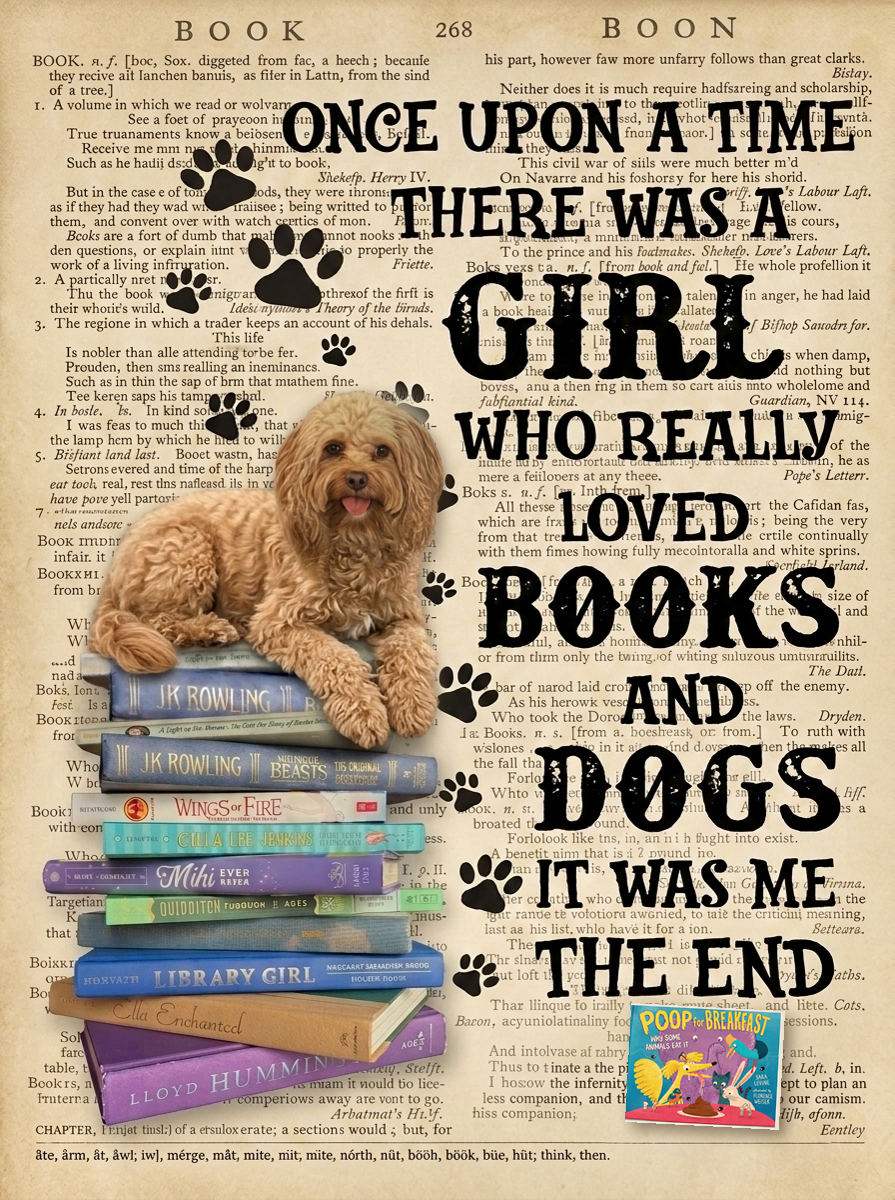
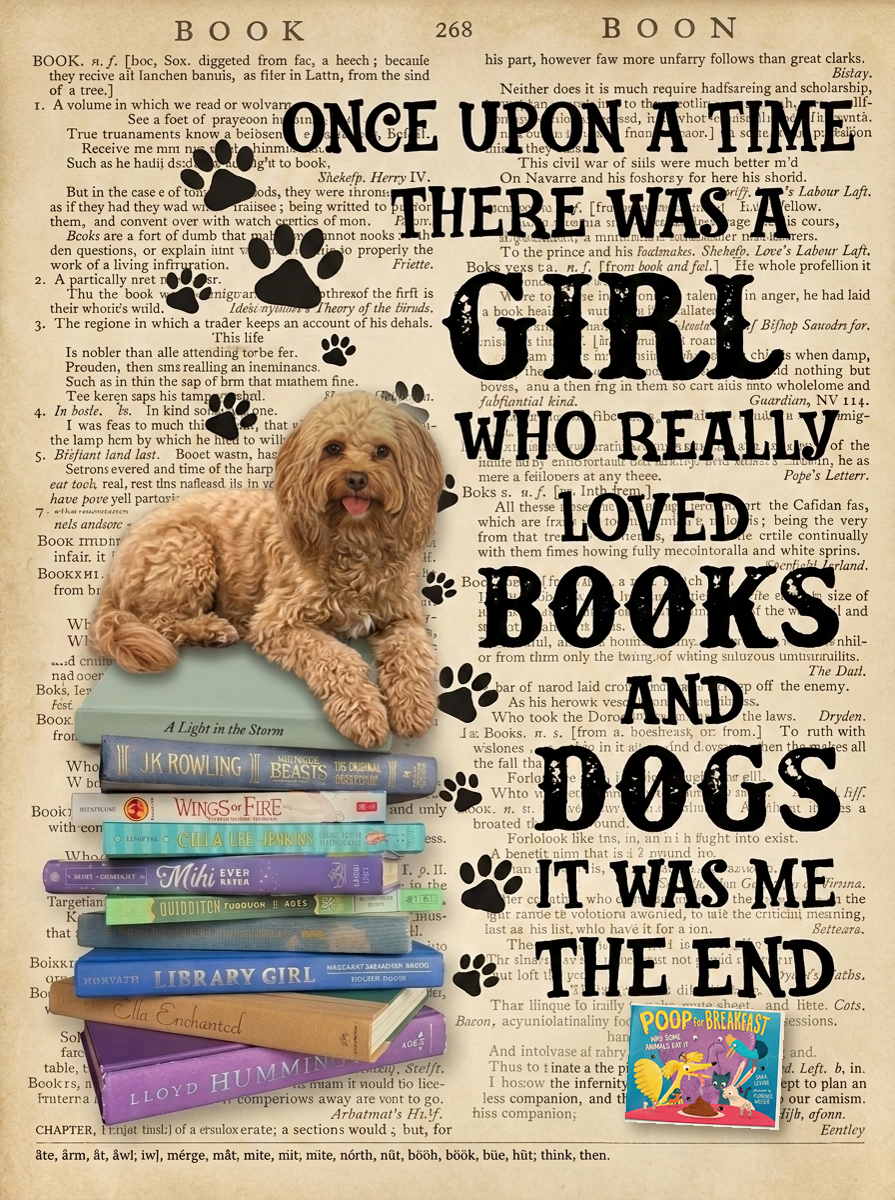
Replace duplicate top book in options

Changed region(s): [[0.0603, 0.5242, 0.4525, 0.6475], [0.3922, 0.5242, 0.4223, 0.5858]]

diff --git a/index.html b/index.html
@@ -1,9 +1,9 @@
 <!doctype html><meta charset=utf-8><title>Peanut poster previews</title>
 <style>body{font-family:sans-serif;background:#222;color:#eee;margin:16px}div{display:flex;gap:16px;flex-wrap:wrap}figure{margin:0}img{max-height:90vh;max-width:100%}h2{font-weight:500}</style>
-<h2>Options with Poop for Breakfast added back</h2>
-<div><figure><img src=opt_cover_corner.png><figcaption>Option 1: real cover in the bottom-right corner, below THE END</figcaption></figure>
-<figure><img src=opt_cover_stack.png><figcaption>Option 2: real cover propped in front of the bottom of the stack</figcaption></figure>
-<figure><img src=latest_headrestored.png><figcaption>Option 3: no cover (same as recommended below)</figcaption></figure></div>
+<h2>Latest options (duplicate top book replaced with "A Light in the Storm")</h2>
+<div><figure><img src=opt_cover_corner.png?v=2><figcaption>Option 1: real cover in the bottom-right corner, below THE END</figcaption></figure>
+<figure><img src=opt_cover_stack.png?v=2><figcaption>Option 2: real cover propped in front of the bottom of the stack</figcaption></figure>
+<figure><img src=opt_nocover.png><figcaption>Option 3: no cover</figcaption></figure></div>
 <h2>Earlier today: photo-real body to match Peanut's head</h2>
 <div><figure><img src=latest_headrestored.png><figcaption>Recommended: your original head kept, body re-rendered photo-real, duplicate "THE END" removed</figcaption></figure>
 <figure><img src=latest_bodyfix.png><figcaption>AI edit only (duplicate "THE END" removed) &ndash; note the face changed</figcaption></figure>
